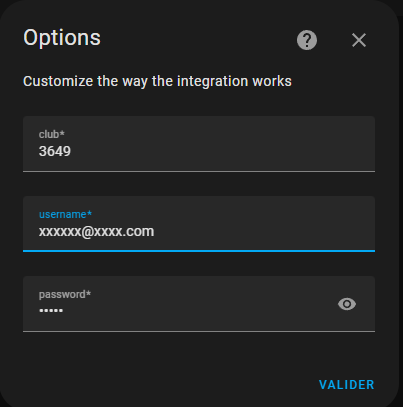
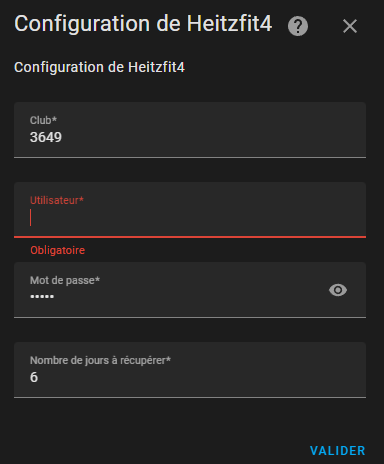
v0.9.9

diff --git a/README.md b/README.md
@@ -29,7 +29,7 @@ Settings > Devices & Sevices > Integrations > Add Integration, and search for "h
 
 You can choose between two options when adding a config entry.  
 
-### using 3 parameters : username, password and id of your club
+### using 4 parameters : id of your club, username, password and number of days for planning
 
 Use your heitzfit4 with username, password and Club Id:  
 ![heitzfit4 config flow](doc/config_flow_username_password.png)
